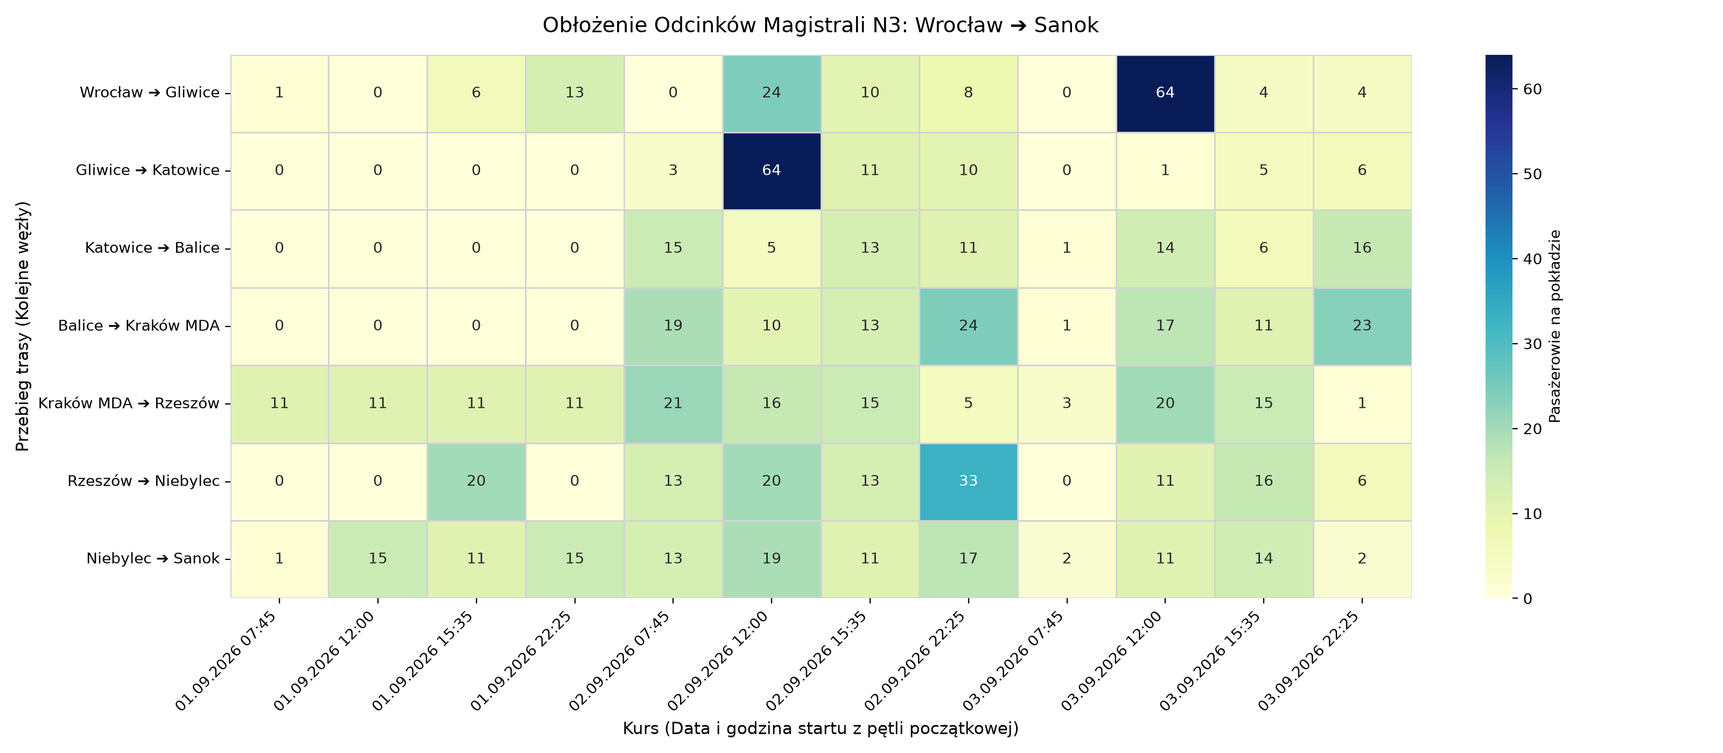
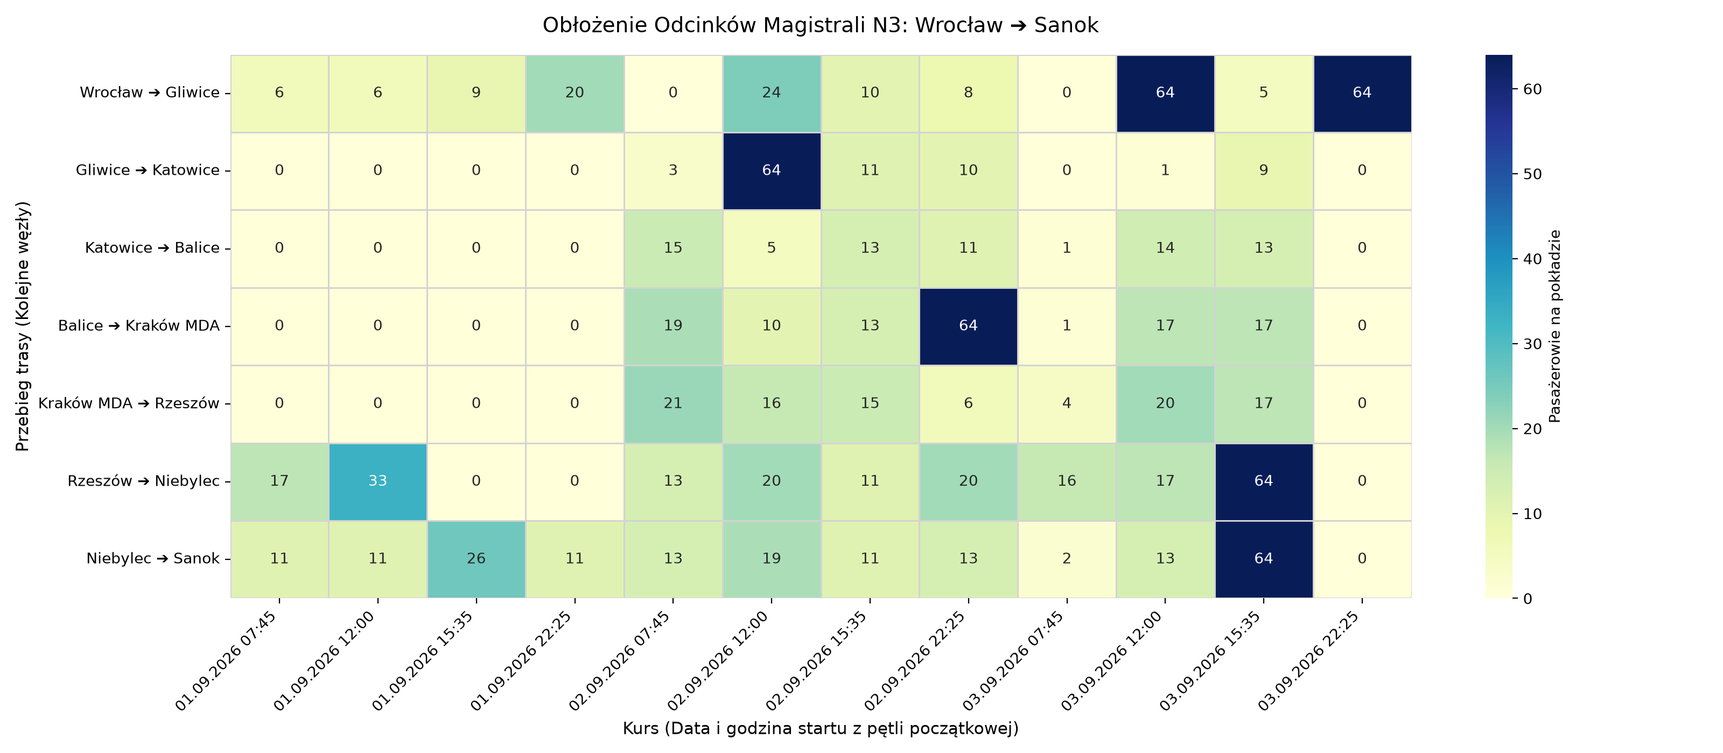
Telemetry Update: 2026-09-01 18:15:47

diff --git a/README.md b/README.md
@@ -1,6 +1,6 @@
 # 🏛 Project Aether: N3 Transit Observatory
 
-> 🕒 **Ostatnia synchronizacja:** `01.09.2026 17:17:18`  
+> 🕒 **Ostatnia synchronizacja:** `01.09.2026 18:15:44`  
 > 📊 **Status magistrali N3 (Sanok ⇄ Wrocław)** | 8 Węzłów | 7 Odcinków Pomiarowych
 
 ## 🧭 Bezpośrednie kursy magistralne (Terminus ➔ Terminus)
@@ -46,12 +46,12 @@
 | Gliwice ➔ Wrocław | ⏰ 09:00 | 0.00 zł | `B/D` | **0/65** | ➡ 0 | **0.00 zł** |
 
 ### 🚌 Sanok ➔ Wrocław: `Poranny II (06:35)` | 📅 Data: **01.09.2026**
-> 💵 **Szacowany obrót kursu:** `1282.50 PLN` | 📊 **Średni Load Factor:** `11.9%`
+> 💵 **Szacowany obrót kursu:** `570.00 PLN` | 📊 **Średni Load Factor:** `5.3%`
 
 | Odcinek | Odjazd | Cena | Wolne | Na pokładzie | Bilans w węźle (Δ) | Obrót odcinka |
 | :--- | :---: | :---: | :---: | :---: | :---: | :---: |
-| Sanok ➔ Niebylec | ⏰ 06:35 | 23.75 zł | `11` | **54/65** | Start trasy | **1282.50 zł** |
-| Niebylec ➔ Rzeszów | ⏰ 07:40 | 0.00 zł | `B/D` | **0/65** | 📉 -54 | **0.00 zł** |
+| Sanok ➔ Niebylec | ⏰ 06:35 | 23.75 zł | `41` | **24/65** | Start trasy | **570.00 zł** |
+| Niebylec ➔ Rzeszów | ⏰ 07:40 | 0.00 zł | `B/D` | **0/65** | 📉 -24 | **0.00 zł** |
 | Rzeszów ➔ Kraków MDA | ⏰ 08:40 | 0.00 zł | `B/D` | **0/65** | ➡ 0 | **0.00 zł** |
 | Kraków MDA ➔ Balice | ⏰ 10:55 | 0.00 zł | `B/D` | **0/65** | ➡ 0 | **0.00 zł** |
 | Balice ➔ Katowice | ⏰ 11:30 | 0.00 zł | `B/D` | **0/65** | ➡ 0 | **0.00 zł** |
@@ -59,17 +59,17 @@
 | Gliwice ➔ Wrocław | ⏰ 13:00 | 0.00 zł | `B/D` | **0/65** | ➡ 0 | **0.00 zł** |
 
 ### 🚌 Wrocław ➔ Sanok: `Poranny (07:45)` | 📅 Data: **01.09.2026**
-> 💵 **Szacowany obrót kursu:** `525.85 PLN` | 📊 **Średni Load Factor:** `2.9%`
+> 💵 **Szacowany obrót kursu:** `707.80 PLN` | 📊 **Średni Load Factor:** `5.4%`
 
 | Odcinek | Odjazd | Cena | Wolne | Na pokładzie | Bilans w węźle (Δ) | Obrót odcinka |
 | :--- | :---: | :---: | :---: | :---: | :---: | :---: |
-| Wrocław ➔ Gliwice | ⏰ 07:45 | 34.45 zł | `64` | **1/65** | Start trasy | **34.45 zł** |
-| Gliwice ➔ Katowice | ⏰ 09:45 | 0.00 zł | `B/D` | **0/65** | 📉 -1 | **0.00 zł** |
+| Wrocław ➔ Gliwice | ⏰ 07:45 | 34.45 zł | `84` | **6/90** | Start trasy | **206.70 zł** |
+| Gliwice ➔ Katowice | ⏰ 09:45 | 0.00 zł | `B/D` | **0/65** | 📉 -6 | **0.00 zł** |
 | Katowice ➔ Balice | ⏰ 10:15 | 0.00 zł | `B/D` | **0/65** | ➡ 0 | **0.00 zł** |
 | Balice ➔ Kraków MDA | ⏰ 11:05 | 0.00 zł | `B/D` | **0/65** | ➡ 0 | **0.00 zł** |
-| Kraków MDA ➔ Rzeszów | ⏰ 11:45 | 42.40 zł | `54` | **11/65** | 📈 +11 | **466.40 zł** |
-| Rzeszów ➔ Niebylec | ⏰ 13:50 | 0.00 zł | `B/D` | **0/65** | 📉 -11 | **0.00 zł** |
-| Niebylec ➔ Sanok | ⏰ 14:35 | 25.00 zł | `64` | **1/65** | 📈 +1 | **25.00 zł** |
+| Kraków MDA ➔ Rzeszów | ⏰ 11:45 | 0.00 zł | `B/D` | **0/65** | ➡ 0 | **0.00 zł** |
+| Rzeszów ➔ Niebylec | ⏰ 13:50 | 13.30 zł | `48` | **17/65** | 📈 +17 | **226.10 zł** |
+| Niebylec ➔ Sanok | ⏰ 14:35 | 25.00 zł | `54` | **11/65** | 📉 -6 | **275.00 zł** |
 
 ### 🚌 Sanok ➔ Wrocław: `Południowy (10:10)` | 📅 Data: **01.09.2026**
 > 💵 **Szacowany obrót kursu:** `570.00 PLN` | 📊 **Średni Load Factor:** `5.3%`
@@ -85,51 +85,51 @@
 | Gliwice ➔ Wrocław | ⏰ 16:55 | 0.00 zł | `B/D` | **0/65** | ➡ 0 | **0.00 zł** |
 
 ### 🚌 Wrocław ➔ Sanok: `Południowy (12:00)` | 📅 Data: **01.09.2026**
-> 💵 **Szacowany obrót kursu:** `841.40 PLN` | 📊 **Średni Load Factor:** `4.1%`
+> 💵 **Szacowany obrót kursu:** `920.60 PLN` | 📊 **Średni Load Factor:** `7.9%`
 
 | Odcinek | Odjazd | Cena | Wolne | Na pokładzie | Bilans w węźle (Δ) | Obrót odcinka |
 | :--- | :---: | :---: | :---: | :---: | :---: | :---: |
-| Wrocław ➔ Gliwice | ⏰ 12:00 | 0.00 zł | `B/D` | **0/65** | Start trasy | **0.00 zł** |
-| Gliwice ➔ Katowice | ⏰ 14:00 | 0.00 zł | `B/D` | **0/65** | ➡ 0 | **0.00 zł** |
+| Wrocław ➔ Gliwice | ⏰ 12:00 | 34.45 zł | `84` | **6/90** | Start trasy | **206.70 zł** |
+| Gliwice ➔ Katowice | ⏰ 14:00 | 0.00 zł | `B/D` | **0/65** | 📉 -6 | **0.00 zł** |
 | Katowice ➔ Balice | ⏰ 14:30 | 0.00 zł | `B/D` | **0/65** | ➡ 0 | **0.00 zł** |
 | Balice ➔ Kraków MDA | ⏰ 15:20 | 0.00 zł | `B/D` | **0/65** | ➡ 0 | **0.00 zł** |
-| Kraków MDA ➔ Rzeszów | ⏰ 16:15 | 42.40 zł | `54` | **11/65** | 📈 +11 | **466.40 zł** |
-| Rzeszów ➔ Niebylec | ⏰ 18:40 | 0.00 zł | `B/D` | **0/65** | 📉 -11 | **0.00 zł** |
-| Niebylec ➔ Sanok | ⏰ 19:20 | 25.00 zł | `75` | **15/90** | 📈 +15 | **375.00 zł** |
+| Kraków MDA ➔ Rzeszów | ⏰ 16:15 | 0.00 zł | `B/D` | **0/65** | ➡ 0 | **0.00 zł** |
+| Rzeszów ➔ Niebylec | ⏰ 18:40 | 13.30 zł | `32` | **33/65** | 📈 +33 | **438.90 zł** |
+| Niebylec ➔ Sanok | ⏰ 19:20 | 25.00 zł | `54` | **11/65** | 📉 -22 | **275.00 zł** |
 
 ### 🚌 Wrocław ➔ Sanok: `Popołudniowy (15:35)` | 📅 Data: **01.09.2026**
-> 💵 **Szacowany obrót kursu:** `1214.10 PLN` | 📊 **Średni Load Factor:** `7.6%`
+> 💵 **Szacowany obrót kursu:** `960.05 PLN` | 📊 **Średni Load Factor:** `5.6%`
 
 | Odcinek | Odjazd | Cena | Wolne | Na pokładzie | Bilans w węźle (Δ) | Obrót odcinka |
 | :--- | :---: | :---: | :---: | :---: | :---: | :---: |
-| Wrocław ➔ Gliwice | ⏰ 15:35 | 34.45 zł | `84` | **6/90** | Start trasy | **206.70 zł** |
-| Gliwice ➔ Katowice | ⏰ 17:40 | 0.00 zł | `B/D` | **0/65** | 📉 -6 | **0.00 zł** |
+| Wrocław ➔ Gliwice | ⏰ 15:35 | 34.45 zł | `81` | **9/90** | Start trasy | **310.05 zł** |
+| Gliwice ➔ Katowice | ⏰ 17:40 | 0.00 zł | `B/D` | **0/65** | 📉 -9 | **0.00 zł** |
 | Katowice ➔ Balice | ⏰ 18:15 | 0.00 zł | `B/D` | **0/65** | ➡ 0 | **0.00 zł** |
 | Balice ➔ Kraków MDA | ⏰ 19:05 | 0.00 zł | `B/D` | **0/65** | ➡ 0 | **0.00 zł** |
-| Kraków MDA ➔ Rzeszów | ⏰ 19:45 | 42.40 zł | `54` | **11/65** | 📈 +11 | **466.40 zł** |
-| Rzeszów ➔ Niebylec | ⏰ 21:55 | 13.30 zł | `45` | **20/65** | 📈 +9 | **266.00 zł** |
-| Niebylec ➔ Sanok | ⏰ 22:30 | 25.00 zł | `54` | **11/65** | 📉 -9 | **275.00 zł** |
+| Kraków MDA ➔ Rzeszów | ⏰ 19:45 | 0.00 zł | `B/D` | **0/65** | ➡ 0 | **0.00 zł** |
+| Rzeszów ➔ Niebylec | ⏰ 21:55 | 0.00 zł | `B/D` | **0/65** | ➡ 0 | **0.00 zł** |
+| Niebylec ➔ Sanok | ⏰ 22:30 | 25.00 zł | `39` | **26/65** | 📈 +26 | **650.00 zł** |
 
 ### 🚌 Wrocław ➔ Sanok: `Nocny (22:25)` | 📅 Data: **01.09.2026**
-> 💵 **Szacowany obrót kursu:** `1289.25 PLN` | 📊 **Średni Load Factor:** `6.2%`
+> 💵 **Szacowany obrót kursu:** `964.00 PLN` | 📊 **Średni Load Factor:** `4.9%`
 
 | Odcinek | Odjazd | Cena | Wolne | Na pokładzie | Bilans w węźle (Δ) | Obrót odcinka |
 | :--- | :---: | :---: | :---: | :---: | :---: | :---: |
-| Wrocław ➔ Gliwice | ⏰ 22:25 | 34.45 zł | `77` | **13/90** | Start trasy | **447.85 zł** |
-| Gliwice ➔ Katowice | ⏰ 00:20 | 0.00 zł | `B/D` | **0/65** | 📉 -13 | **0.00 zł** |
+| Wrocław ➔ Gliwice | ⏰ 22:25 | 34.45 zł | `70` | **20/90** | Start trasy | **689.00 zł** |
+| Gliwice ➔ Katowice | ⏰ 00:20 | 0.00 zł | `B/D` | **0/65** | 📉 -20 | **0.00 zł** |
 | Katowice ➔ Balice | ⏰ 00:50 | 0.00 zł | `B/D` | **0/65** | ➡ 0 | **0.00 zł** |
 | Balice ➔ Kraków MDA | ⏰ 01:50 | 0.00 zł | `B/D` | **0/65** | ➡ 0 | **0.00 zł** |
-| Kraków MDA ➔ Rzeszów | ⏰ 02:20 | 42.40 zł | `54` | **11/65** | 📈 +11 | **466.40 zł** |
-| Rzeszów ➔ Niebylec | ⏰ 04:30 | 0.00 zł | `B/D` | **0/65** | 📉 -11 | **0.00 zł** |
-| Niebylec ➔ Sanok | ⏰ 05:00 | 25.00 zł | `75` | **15/90** | 📈 +15 | **375.00 zł** |
+| Kraków MDA ➔ Rzeszów | ⏰ 02:20 | 0.00 zł | `B/D` | **0/65** | ➡ 0 | **0.00 zł** |
+| Rzeszów ➔ Niebylec | ⏰ 04:30 | 0.00 zł | `B/D` | **0/65** | ➡ 0 | **0.00 zł** |
+| Niebylec ➔ Sanok | ⏰ 05:00 | 25.00 zł | `54` | **11/65** | 📈 +11 | **275.00 zł** |
 
 ### 🚌 Sanok ➔ Wrocław: `Nocny (23:50)` | 📅 Data: **01.09.2026**
-> 💵 **Szacowany obrót kursu:** `617.50 PLN` | 📊 **Średni Load Factor:** `5.7%`
+> 💵 **Szacowany obrót kursu:** `570.00 PLN` | 📊 **Średni Load Factor:** `5.3%`
 
 | Odcinek | Odjazd | Cena | Wolne | Na pokładzie | Bilans w węźle (Δ) | Obrót odcinka |
 | :--- | :---: | :---: | :---: | :---: | :---: | :---: |
-| Sanok ➔ Niebylec | ⏰ 23:50 | 23.75 zł | `39` | **26/65** | Start trasy | **617.50 zł** |
-| Niebylec ➔ Rzeszów | ⏰ 00:50 | 0.00 zł | `B/D` | **0/65** | 📉 -26 | **0.00 zł** |
+| Sanok ➔ Niebylec | ⏰ 23:50 | 23.75 zł | `41` | **24/65** | Start trasy | **570.00 zł** |
+| Niebylec ➔ Rzeszów | ⏰ 00:50 | 0.00 zł | `B/D` | **0/65** | 📉 -24 | **0.00 zł** |
 | Rzeszów ➔ Kraków MDA | ⏰ 01:30 | 0.00 zł | `B/D` | **0/65** | ➡ 0 | **0.00 zł** |
 | Kraków MDA ➔ Balice | ⏰ 03:35 | 0.00 zł | `B/D` | **0/65** | ➡ 0 | **0.00 zł** |
 | Balice ➔ Katowice | ⏰ 04:00 | 0.00 zł | `B/D` | **0/65** | ➡ 0 | **0.00 zł** |
@@ -137,16 +137,16 @@
 | Gliwice ➔ Wrocław | ⏰ 05:22 | 0.00 zł | `B/D` | **0/65** | ➡ 0 | **0.00 zł** |
 
 ### 🚌 Sanok ➔ Wrocław: `Poranny I (03:00)` | 📅 Data: **02.09.2026**
-> 💵 **Szacowany obrót kursu:** `6072.55 PLN` | 📊 **Średni Load Factor:** `50.1%`
+> 💵 **Szacowany obrót kursu:** `4516.80 PLN` | 📊 **Średni Load Factor:** `33.8%`
 
 | Odcinek | Odjazd | Cena | Wolne | Na pokładzie | Bilans w węźle (Δ) | Obrót odcinka |
 | :--- | :---: | :---: | :---: | :---: | :---: | :---: |
-| Sanok ➔ Niebylec | ⏰ 03:00 | 23.75 zł | `52` | **13/65** | Start trasy | **308.75 zł** |
-| Niebylec ➔ Rzeszów | ⏰ 04:00 | 14.00 zł | `31` | **34/65** | 📈 +21 | **476.00 zł** |
-| Rzeszów ➔ Kraków MDA | ⏰ 04:40 | 42.40 zł | `39` | **26/65** | 📉 -8 | **1102.40 zł** |
-| Kraków MDA ➔ Balice | ⏰ 06:55 | 27.00 zł | `40` | **25/65** | 📉 -1 | **675.00 zł** |
-| Balice ➔ Katowice | ⏰ 07:20 | 48.00 zł | `63` | **2/65** | 📉 -23 | **96.00 zł** |
-| Katowice ➔ Gliwice | ⏰ 08:30 | 18.90 zł | `1` | **64/65** | 📈 +62 | **1209.60 zł** |
+| Sanok ➔ Niebylec | ⏰ 03:00 | 0.00 zł | `B/D` | **0/65** | Start trasy | **0.00 zł** |
+| Niebylec ➔ Rzeszów | ⏰ 04:00 | 0.00 zł | `B/D` | **0/65** | ➡ 0 | **0.00 zł** |
+| Rzeszów ➔ Kraków MDA | ⏰ 04:40 | 42.40 zł | `39` | **26/65** | 📈 +26 | **1102.40 zł** |
+| Kraków MDA ➔ Balice | ⏰ 06:55 | 0.00 zł | `B/D` | **0/65** | 📉 -26 | **0.00 zł** |
+| Balice ➔ Katowice | ⏰ 07:20 | 0.00 zł | `B/D` | **0/65** | ➡ 0 | **0.00 zł** |
+| Katowice ➔ Gliwice | ⏰ 08:30 | 18.90 zł | `1` | **64/65** | 📈 +64 | **1209.60 zł** |
 | Gliwice ➔ Wrocław | ⏰ 09:00 | 34.45 zł | `1` | **64/65** | ➡ 0 | **2204.80 zł** |
 
 ### 🚌 Sanok ➔ Wrocław: `Poranny II (06:35)` | 📅 Data: **02.09.2026**
@@ -202,7 +202,7 @@
 | Niebylec ➔ Sanok | ⏰ 19:20 | 25.00 zł | `46` | **19/65** | 📉 -1 | **475.00 zł** |
 
 ### 🚌 Wrocław ➔ Sanok: `Popołudniowy (15:35)` | 📅 Data: **02.09.2026**
-> 💵 **Szacowany obrót kursu:** `2591.65 PLN` | 📊 **Średni Load Factor:** `18.9%`
+> 💵 **Szacowany obrót kursu:** `2565.05 PLN` | 📊 **Średni Load Factor:** `18.5%`
 
 | Odcinek | Odjazd | Cena | Wolne | Na pokładzie | Bilans w węźle (Δ) | Obrót odcinka |
 | :--- | :---: | :---: | :---: | :---: | :---: | :---: |
@@ -211,50 +211,76 @@
 | Katowice ➔ Balice | ⏰ 18:15 | 45.60 zł | `52` | **13/65** | 📈 +2 | **592.80 zł** |
 | Balice ➔ Kraków MDA | ⏰ 19:05 | 27.00 zł | `52` | **13/65** | ➡ 0 | **351.00 zł** |
 | Kraków MDA ➔ Rzeszów | ⏰ 19:45 | 42.40 zł | `50` | **15/65** | 📈 +2 | **636.00 zł** |
-| Rzeszów ➔ Niebylec | ⏰ 21:55 | 13.30 zł | `52` | **13/65** | 📉 -2 | **172.90 zł** |
-| Niebylec ➔ Sanok | ⏰ 22:30 | 25.00 zł | `54` | **11/65** | 📉 -2 | **275.00 zł** |
+| Rzeszów ➔ Niebylec | ⏰ 21:55 | 13.30 zł | `54` | **11/65** | 📉 -4 | **146.30 zł** |
+| Niebylec ➔ Sanok | ⏰ 22:30 | 25.00 zł | `54` | **11/65** | ➡ 0 | **275.00 zł** |
 
 ### 🚌 Wrocław ➔ Sanok: `Nocny (22:25)` | 📅 Data: **02.09.2026**
-> 💵 **Szacowany obrót kursu:** `2700.60 PLN` | 📊 **Średni Load Factor:** `17.1%`
+> 💵 **Szacowany obrót kursu:** `3550.10 PLN` | 📊 **Średni Load Factor:** `21.0%`
 
 | Odcinek | Odjazd | Cena | Wolne | Na pokładzie | Bilans w węźle (Δ) | Obrót odcinka |
 | :--- | :---: | :---: | :---: | :---: | :---: | :---: |
 | Wrocław ➔ Gliwice | ⏰ 22:25 | 34.45 zł | `82` | **8/90** | Start trasy | **275.60 zł** |
 | Gliwice ➔ Katowice | ⏰ 00:20 | 19.95 zł | `80` | **10/90** | 📈 +2 | **199.50 zł** |
 | Katowice ➔ Balice | ⏰ 00:50 | 45.60 zł | `79` | **11/90** | 📈 +1 | **501.60 zł** |
-| Balice ➔ Kraków MDA | ⏰ 01:50 | 27.00 zł | `66` | **24/90** | 📈 +13 | **648.00 zł** |
-| Kraków MDA ➔ Rzeszów | ⏰ 02:20 | 42.40 zł | `60` | **5/65** | 📉 -19 | **212.00 zł** |
-| Rzeszów ➔ Niebylec | ⏰ 04:30 | 13.30 zł | `32` | **33/65** | 📈 +28 | **438.90 zł** |
-| Niebylec ➔ Sanok | ⏰ 05:00 | 25.00 zł | `48` | **17/65** | 📉 -16 | **425.00 zł** |
+| Balice ➔ Kraków MDA | ⏰ 01:50 | 27.00 zł | `1` | **64/65** | 📈 +53 | **1728.00 zł** |
+| Kraków MDA ➔ Rzeszów | ⏰ 02:20 | 42.40 zł | `59` | **6/65** | 📉 -58 | **254.40 zł** |
+| Rzeszów ➔ Niebylec | ⏰ 04:30 | 13.30 zł | `45` | **20/65** | 📈 +14 | **266.00 zł** |
+| Niebylec ➔ Sanok | ⏰ 05:00 | 25.00 zł | `52` | **13/65** | 📉 -7 | **325.00 zł** |
 
-### 🚌 Sanok ➔ Wrocław: `Nocny (23:50)` | 📅 Data: **02.09.2026**
-> 💵 **Szacowany obrót kursu:** `3007.05 PLN` | 📊 **Średni Load Factor:** `15.1%`
+### 🚌 Sanok ➔ Wrocław: `Poranny I (03:00)` | 📅 Data: **03.09.2026**
+> 💵 **Szacowany obrót kursu:** `1580.50 PLN` | 📊 **Średni Load Factor:** `20.2%`
 
 | Odcinek | Odjazd | Cena | Wolne | Na pokładzie | Bilans w węźle (Δ) | Obrót odcinka |
 | :--- | :---: | :---: | :---: | :---: | :---: | :---: |
-| Sanok ➔ Niebylec | ⏰ 23:50 | 0.00 zł | `B/D` | **0/65** | Start trasy | **0.00 zł** |
-| Niebylec ➔ Rzeszów | ⏰ 00:50 | 0.00 zł | `B/D` | **0/65** | ➡ 0 | **0.00 zł** |
-| Rzeszów ➔ Kraków MDA | ⏰ 01:30 | 42.40 zł | `39` | **26/65** | 📈 +26 | **1102.40 zł** |
-| Kraków MDA ➔ Balice | ⏰ 03:35 | 27.00 zł | `23` | **42/65** | 📈 +16 | **1134.00 zł** |
-| Balice ➔ Katowice | ⏰ 04:00 | 48.00 zł | `63` | **2/65** | 📉 -40 | **96.00 zł** |
-| Katowice ➔ Gliwice | ⏰ 04:55 | 18.90 zł | `78` | **12/90** | 📈 +10 | **226.80 zł** |
-| Gliwice ➔ Wrocław | ⏰ 05:22 | 34.45 zł | `77` | **13/90** | 📈 +1 | **447.85 zł** |
+| Sanok ➔ Niebylec | ⏰ 03:00 | 23.75 zł | `35` | **30/65** | Start trasy | **712.50 zł** |
+| Niebylec ➔ Rzeszów | ⏰ 04:00 | 14.00 zł | `3` | **62/65** | 📈 +32 | **868.00 zł** |
+| Rzeszów ➔ Kraków MDA | ⏰ 04:40 | 0.00 zł | `B/D` | **0/65** | 📉 -62 | **0.00 zł** |
+| Kraków MDA ➔ Balice | ⏰ 06:55 | 0.00 zł | `B/D` | **0/65** | ➡ 0 | **0.00 zł** |
+| Balice ➔ Katowice | ⏰ 07:20 | 0.00 zł | `B/D` | **0/65** | ➡ 0 | **0.00 zł** |
+| Katowice ➔ Gliwice | ⏰ 08:30 | 0.00 zł | `B/D` | **0/65** | ➡ 0 | **0.00 zł** |
+| Gliwice ➔ Wrocław | ⏰ 09:00 | 0.00 zł | `B/D` | **0/65** | ➡ 0 | **0.00 zł** |
+
+### 🚌 Sanok ➔ Wrocław: `Poranny II (06:35)` | 📅 Data: **03.09.2026**
+> 💵 **Szacowany obrót kursu:** `1493.15 PLN` | 📊 **Średni Load Factor:** `8.4%`
+
+| Odcinek | Odjazd | Cena | Wolne | Na pokładzie | Bilans w węźle (Δ) | Obrót odcinka |
+| :--- | :---: | :---: | :---: | :---: | :---: | :---: |
+| Sanok ➔ Niebylec | ⏰ 06:35 | 0.00 zł | `B/D` | **0/65** | Start trasy | **0.00 zł** |
+| Niebylec ➔ Rzeszów | ⏰ 07:40 | 0.00 zł | `B/D` | **0/65** | ➡ 0 | **0.00 zł** |
+| Rzeszów ➔ Kraków MDA | ⏰ 08:40 | 42.40 zł | `44` | **21/65** | 📈 +21 | **890.40 zł** |
+| Kraków MDA ➔ Balice | ⏰ 10:55 | 0.00 zł | `B/D` | **0/65** | 📉 -21 | **0.00 zł** |
+| Balice ➔ Katowice | ⏰ 11:30 | 48.00 zł | `58` | **7/65** | 📈 +7 | **336.00 zł** |
+| Katowice ➔ Gliwice | ⏰ 12:30 | 18.90 zł | `60` | **5/65** | 📉 -2 | **94.50 zł** |
+| Gliwice ➔ Wrocław | ⏰ 13:00 | 34.45 zł | `60` | **5/65** | ➡ 0 | **172.25 zł** |
 
 ### 🚌 Wrocław ➔ Sanok: `Poranny (07:45)` | 📅 Data: **03.09.2026**
-> 💵 **Szacowany obrót kursu:** `249.80 PLN` | 📊 **Średni Load Factor:** `1.1%`
+> 💵 **Szacowany obrót kursu:** `505.00 PLN` | 📊 **Średni Load Factor:** `3.8%`
 
 | Odcinek | Odjazd | Cena | Wolne | Na pokładzie | Bilans w węźle (Δ) | Obrót odcinka |
 | :--- | :---: | :---: | :---: | :---: | :---: | :---: |
-| Wrocław ➔ Gliwice | ⏰ 07:45 | 0.00 zł | `B/D` | **0/65** | Start trasy | **0.00 zł** |
+| Wrocław ➔ Gliwice | ⏰ 07:45 | 34.45 zł | `90` | **0/90** | Start trasy | **0.00 zł** |
 | Gliwice ➔ Katowice | ⏰ 09:45 | 19.95 zł | `90` | **0/90** | ➡ 0 | **0.00 zł** |
 | Katowice ➔ Balice | ⏰ 10:15 | 45.60 zł | `89` | **1/90** | 📈 +1 | **45.60 zł** |
 | Balice ➔ Kraków MDA | ⏰ 11:05 | 27.00 zł | `89` | **1/90** | ➡ 0 | **27.00 zł** |
-| Kraków MDA ➔ Rzeszów | ⏰ 11:45 | 42.40 zł | `87` | **3/90** | 📈 +2 | **127.20 zł** |
-| Rzeszów ➔ Niebylec | ⏰ 13:50 | 0.00 zł | `B/D` | **0/65** | 📉 -3 | **0.00 zł** |
-| Niebylec ➔ Sanok | ⏰ 14:35 | 25.00 zł | `63` | **2/65** | 📈 +2 | **50.00 zł** |
+| Kraków MDA ➔ Rzeszów | ⏰ 11:45 | 42.40 zł | `86` | **4/90** | 📈 +3 | **169.60 zł** |
+| Rzeszów ➔ Niebylec | ⏰ 13:50 | 13.30 zł | `49` | **16/65** | 📈 +12 | **212.80 zł** |
+| Niebylec ➔ Sanok | ⏰ 14:35 | 25.00 zł | `63` | **2/65** | 📉 -14 | **50.00 zł** |
+
+### 🚌 Sanok ➔ Wrocław: `Południowy (10:10)` | 📅 Data: **03.09.2026**
+> 💵 **Szacowany obrót kursu:** `1562.30 PLN` | 📊 **Średni Load Factor:** `6.8%`
+
+| Odcinek | Odjazd | Cena | Wolne | Na pokładzie | Bilans w węźle (Δ) | Obrót odcinka |
+| :--- | :---: | :---: | :---: | :---: | :---: | :---: |
+| Sanok ➔ Niebylec | ⏰ 10:10 | 0.00 zł | `B/D` | **0/65** | Start trasy | **0.00 zł** |
+| Niebylec ➔ Rzeszów | ⏰ 11:25 | 0.00 zł | `B/D` | **0/65** | ➡ 0 | **0.00 zł** |
+| Rzeszów ➔ Kraków MDA | ⏰ 12:20 | 42.40 zł | `69` | **21/90** | 📈 +21 | **890.40 zł** |
+| Kraków MDA ➔ Balice | ⏰ 14:40 | 27.00 zł | `73` | **17/90** | 📉 -4 | **459.00 zł** |
+| Balice ➔ Katowice | ⏰ 15:15 | 48.00 zł | `87` | **3/90** | 📉 -14 | **144.00 zł** |
+| Katowice ➔ Gliwice | ⏰ 16:25 | 18.90 zł | `90` | **0/90** | 📉 -3 | **0.00 zł** |
+| Gliwice ➔ Wrocław | ⏰ 16:55 | 34.45 zł | `88` | **2/90** | 📈 +2 | **68.90 zł** |
 
 ### 🚌 Wrocław ➔ Sanok: `Południowy (12:00)` | 📅 Data: **03.09.2026**
-> 💵 **Szacowany obrót kursu:** `4591.45 PLN` | 📊 **Średni Load Factor:** `30.3%`
+> 💵 **Szacowany obrót kursu:** `4721.25 PLN` | 📊 **Średni Load Factor:** `32.1%`
 
 | Odcinek | Odjazd | Cena | Wolne | Na pokładzie | Bilans w węźle (Δ) | Obrót odcinka |
 | :--- | :---: | :---: | :---: | :---: | :---: | :---: |
@@ -263,47 +289,47 @@
 | Katowice ➔ Balice | ⏰ 14:30 | 45.60 zł | `51` | **14/65** | 📈 +13 | **638.40 zł** |
 | Balice ➔ Kraków MDA | ⏰ 15:20 | 27.00 zł | `48` | **17/65** | 📈 +3 | **459.00 zł** |
 | Kraków MDA ➔ Rzeszów | ⏰ 16:15 | 42.40 zł | `45` | **20/65** | 📈 +3 | **848.00 zł** |
-| Rzeszów ➔ Niebylec | ⏰ 18:40 | 13.30 zł | `54` | **11/65** | 📉 -9 | **146.30 zł** |
-| Niebylec ➔ Sanok | ⏰ 19:20 | 25.00 zł | `54` | **11/65** | ➡ 0 | **275.00 zł** |
+| Rzeszów ➔ Niebylec | ⏰ 18:40 | 13.30 zł | `48` | **17/65** | 📉 -3 | **226.10 zł** |
+| Niebylec ➔ Sanok | ⏰ 19:20 | 25.00 zł | `52` | **13/65** | 📉 -4 | **325.00 zł** |
 
 ### 🚌 Wrocław ➔ Sanok: `Popołudniowy (15:35)` | 📅 Data: **03.09.2026**
-> 💵 **Szacowany obrót kursu:** `2006.95 PLN` | 📊 **Średni Load Factor:** `15.6%`
+> 💵 **Szacowany obrót kursu:** `4575.60 PLN` | 📊 **Średni Load Factor:** `41.5%`
 
 | Odcinek | Odjazd | Cena | Wolne | Na pokładzie | Bilans w węźle (Δ) | Obrót odcinka |
 | :--- | :---: | :---: | :---: | :---: | :---: | :---: |
-| Wrocław ➔ Gliwice | ⏰ 15:35 | 34.45 zł | `61` | **4/65** | Start trasy | **137.80 zł** |
-| Gliwice ➔ Katowice | ⏰ 17:40 | 19.95 zł | `60` | **5/65** | 📈 +1 | **99.75 zł** |
-| Katowice ➔ Balice | ⏰ 18:15 | 45.60 zł | `59` | **6/65** | 📈 +1 | **273.60 zł** |
-| Balice ➔ Kraków MDA | ⏰ 19:05 | 27.00 zł | `54` | **11/65** | 📈 +5 | **297.00 zł** |
-| Kraków MDA ➔ Rzeszów | ⏰ 19:45 | 42.40 zł | `50` | **15/65** | 📈 +4 | **636.00 zł** |
-| Rzeszów ➔ Niebylec | ⏰ 21:55 | 13.30 zł | `49` | **16/65** | 📈 +1 | **212.80 zł** |
-| Niebylec ➔ Sanok | ⏰ 22:30 | 25.00 zł | `51` | **14/65** | 📉 -2 | **350.00 zł** |
+| Wrocław ➔ Gliwice | ⏰ 15:35 | 34.45 zł | `60` | **5/65** | Start trasy | **172.25 zł** |
+| Gliwice ➔ Katowice | ⏰ 17:40 | 19.95 zł | `56` | **9/65** | 📈 +4 | **179.55 zł** |
+| Katowice ➔ Balice | ⏰ 18:15 | 45.60 zł | `52` | **13/65** | 📈 +4 | **592.80 zł** |
+| Balice ➔ Kraków MDA | ⏰ 19:05 | 27.00 zł | `48` | **17/65** | 📈 +4 | **459.00 zł** |
+| Kraków MDA ➔ Rzeszów | ⏰ 19:45 | 42.40 zł | `48` | **17/65** | ➡ 0 | **720.80 zł** |
+| Rzeszów ➔ Niebylec | ⏰ 21:55 | 13.30 zł | `1` | **64/65** | 📈 +47 | **851.20 zł** |
+| Niebylec ➔ Sanok | ⏰ 22:30 | 25.00 zł | `1` | **64/65** | ➡ 0 | **1600.00 zł** |
 
 ### 🚌 Wrocław ➔ Sanok: `Nocny (22:25)` | 📅 Data: **03.09.2026**
-> 💵 **Szacowany obrót kursu:** `1780.30 PLN` | 📊 **Średni Load Factor:** `9.2%`
+> 💵 **Szacowany obrót kursu:** `2204.80 PLN` | 📊 **Średni Load Factor:** `14.1%`
 
 | Odcinek | Odjazd | Cena | Wolne | Na pokładzie | Bilans w węźle (Δ) | Obrót odcinka |
 | :--- | :---: | :---: | :---: | :---: | :---: | :---: |
-| Wrocław ➔ Gliwice | ⏰ 22:25 | 34.45 zł | `86` | **4/90** | Start trasy | **137.80 zł** |
-| Gliwice ➔ Katowice | ⏰ 00:20 | 19.95 zł | `84` | **6/90** | 📈 +2 | **119.70 zł** |
-| Katowice ➔ Balice | ⏰ 00:50 | 45.60 zł | `74` | **16/90** | 📈 +10 | **729.60 zł** |
-| Balice ➔ Kraków MDA | ⏰ 01:50 | 27.00 zł | `67` | **23/90** | 📈 +7 | **621.00 zł** |
-| Kraków MDA ➔ Rzeszów | ⏰ 02:20 | 42.40 zł | `64` | **1/65** | 📉 -22 | **42.40 zł** |
-| Rzeszów ➔ Niebylec | ⏰ 04:30 | 13.30 zł | `59` | **6/65** | 📈 +5 | **79.80 zł** |
-| Niebylec ➔ Sanok | ⏰ 05:00 | 25.00 zł | `63` | **2/65** | 📉 -4 | **50.00 zł** |
+| Wrocław ➔ Gliwice | ⏰ 22:25 | 34.45 zł | `1` | **64/65** | Start trasy | **2204.80 zł** |
+| Gliwice ➔ Katowice | ⏰ 00:20 | 0.00 zł | `B/D` | **0/65** | 📉 -64 | **0.00 zł** |
+| Katowice ➔ Balice | ⏰ 00:50 | 0.00 zł | `B/D` | **0/65** | ➡ 0 | **0.00 zł** |
+| Balice ➔ Kraków MDA | ⏰ 01:50 | 0.00 zł | `B/D` | **0/65** | ➡ 0 | **0.00 zł** |
+| Kraków MDA ➔ Rzeszów | ⏰ 02:20 | 0.00 zł | `B/D` | **0/65** | ➡ 0 | **0.00 zł** |
+| Rzeszów ➔ Niebylec | ⏰ 04:30 | 0.00 zł | `B/D` | **0/65** | ➡ 0 | **0.00 zł** |
+| Niebylec ➔ Sanok | ⏰ 05:00 | 0.00 zł | `B/D` | **0/65** | ➡ 0 | **0.00 zł** |
 
 ### 🚌 Sanok ➔ Wrocław: `Nocny (23:50)` | 📅 Data: **03.09.2026**
-> 💵 **Szacowany obrót kursu:** `2416.00 PLN` | 📊 **Średni Load Factor:** `28.1%`
+> 💵 **Szacowany obrót kursu:** `2146.45 PLN` | 📊 **Średni Load Factor:** `11.3%`
 
 | Odcinek | Odjazd | Cena | Wolne | Na pokładzie | Bilans w węźle (Δ) | Obrót odcinka |
 | :--- | :---: | :---: | :---: | :---: | :---: | :---: |
-| Sanok ➔ Niebylec | ⏰ 23:50 | 23.75 zł | `1` | **64/65** | Start trasy | **1520.00 zł** |
-| Niebylec ➔ Rzeszów | ⏰ 00:50 | 14.00 zł | `1` | **64/65** | ➡ 0 | **896.00 zł** |
-| Rzeszów ➔ Kraków MDA | ⏰ 01:30 | 0.00 zł | `B/D` | **0/65** | 📉 -64 | **0.00 zł** |
-| Kraków MDA ➔ Balice | ⏰ 03:35 | 0.00 zł | `B/D` | **0/65** | ➡ 0 | **0.00 zł** |
-| Balice ➔ Katowice | ⏰ 04:00 | 0.00 zł | `B/D` | **0/65** | ➡ 0 | **0.00 zł** |
-| Katowice ➔ Gliwice | ⏰ 04:55 | 0.00 zł | `B/D` | **0/65** | ➡ 0 | **0.00 zł** |
-| Gliwice ➔ Wrocław | ⏰ 05:22 | 0.00 zł | `B/D` | **0/65** | ➡ 0 | **0.00 zł** |
+| Sanok ➔ Niebylec | ⏰ 23:50 | 23.75 zł | `46` | **19/65** | Start trasy | **451.25 zł** |
+| Niebylec ➔ Rzeszów | ⏰ 00:50 | 14.00 zł | `56` | **9/65** | 📉 -10 | **126.00 zł** |
+| Rzeszów ➔ Kraków MDA | ⏰ 01:30 | 42.40 zł | `48` | **17/65** | 📈 +8 | **720.80 zł** |
+| Kraków MDA ➔ Balice | ⏰ 03:35 | 27.00 zł | `54` | **11/65** | 📉 -6 | **297.00 zł** |
+| Balice ➔ Katowice | ⏰ 04:00 | 48.00 zł | `84` | **6/90** | 📉 -5 | **288.00 zł** |
+| Katowice ➔ Gliwice | ⏰ 04:55 | 18.90 zł | `87` | **3/90** | 📉 -3 | **56.70 zł** |
+| Gliwice ➔ Wrocław | ⏰ 05:22 | 34.45 zł | `84` | **6/90** | 📈 +3 | **206.70 zł** |
 
 
 ---
